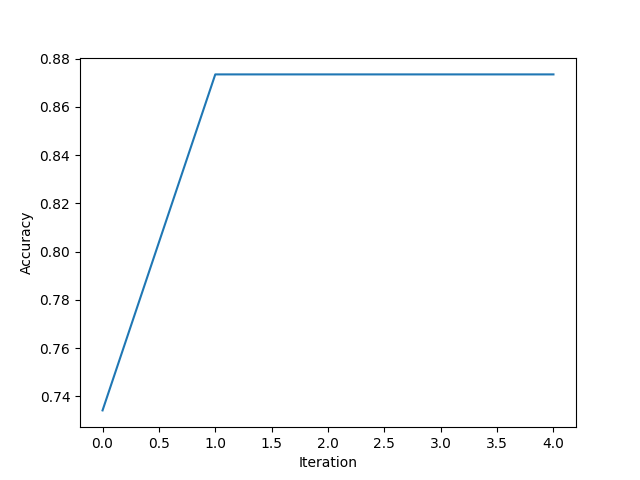
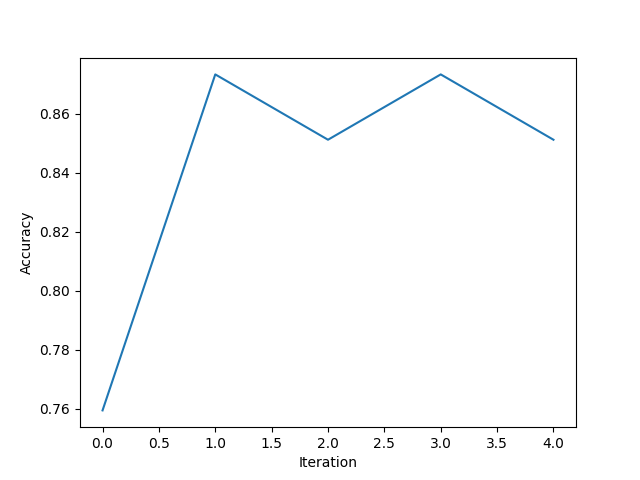
supervised strong scaling

diff --git a/performance.py b/performance.py
@@ -97,5 +97,5 @@ def weak(semi = False):
     fig.savefig("Figures/avg_epoch_seconds_over_datasize.png")
 
 if __name__ == '__main__':
-    weak(True)
-    strong(True)
+    # weak(True)
+    strong(False)
